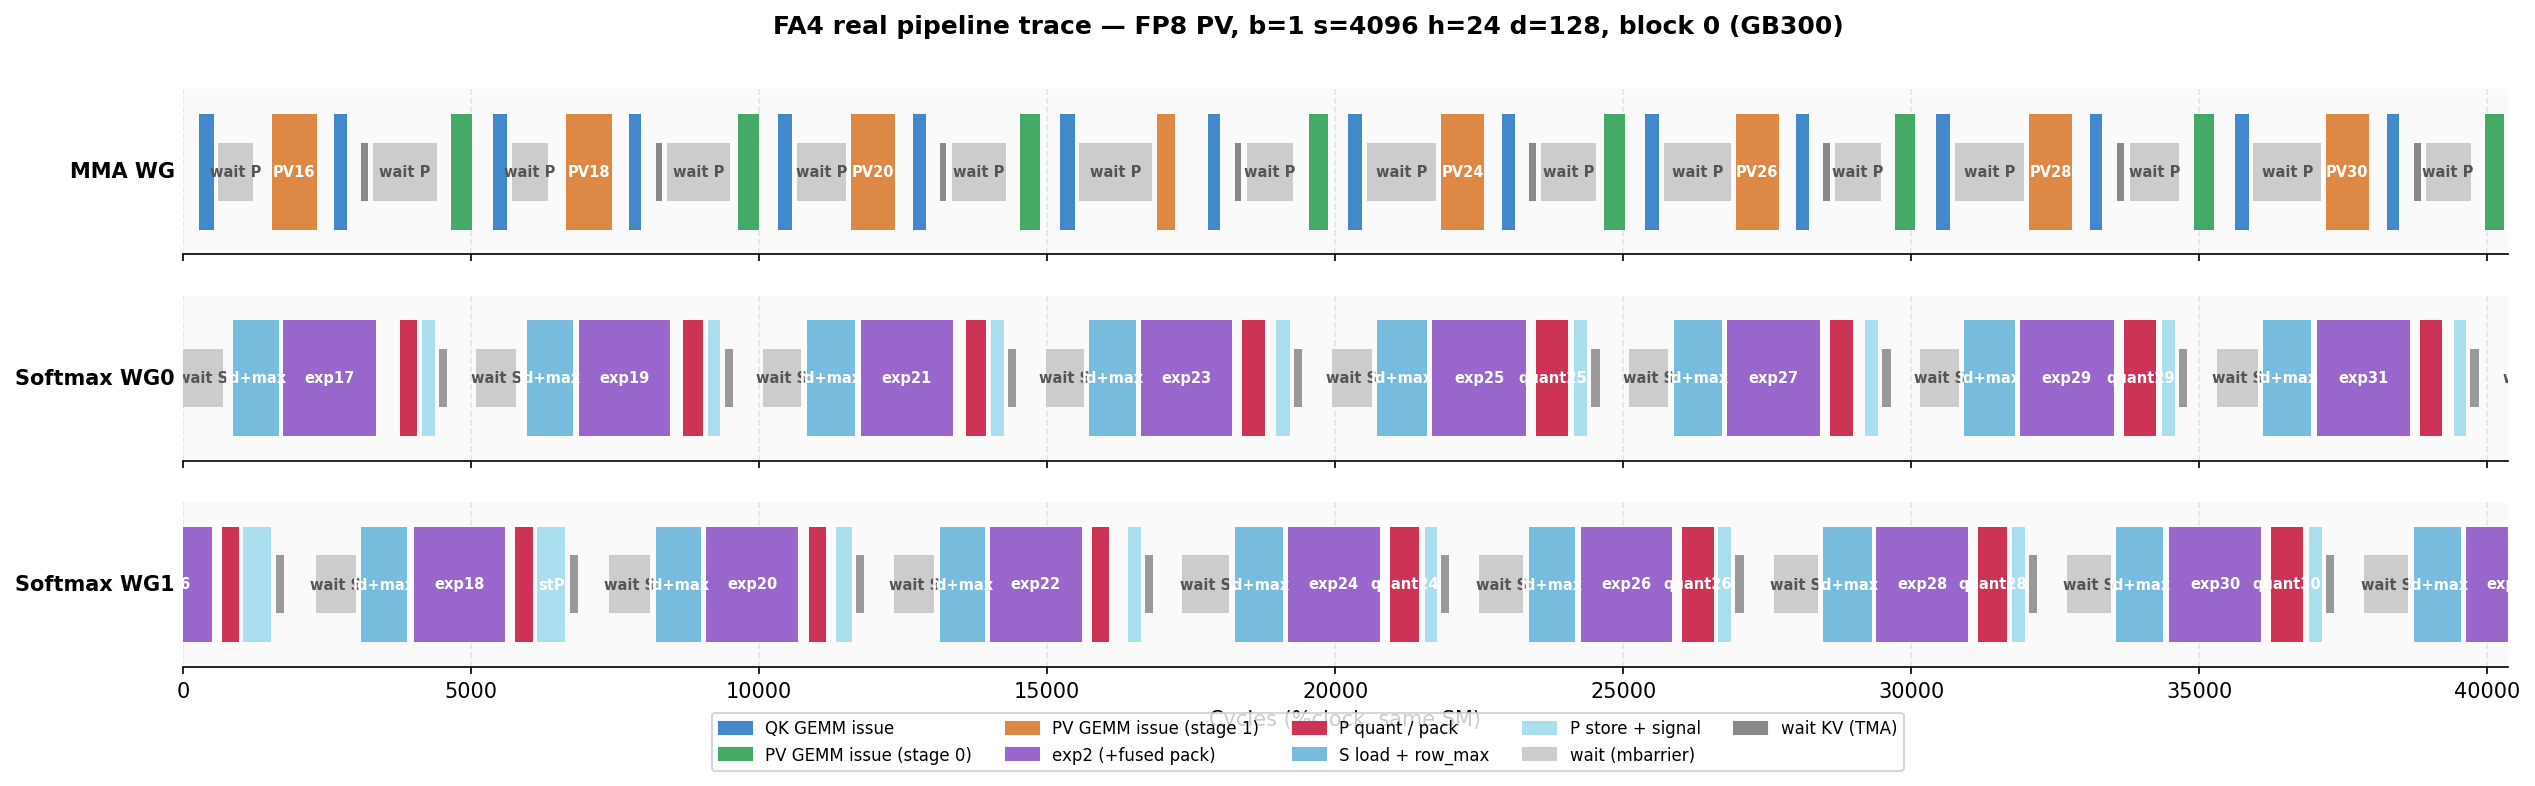
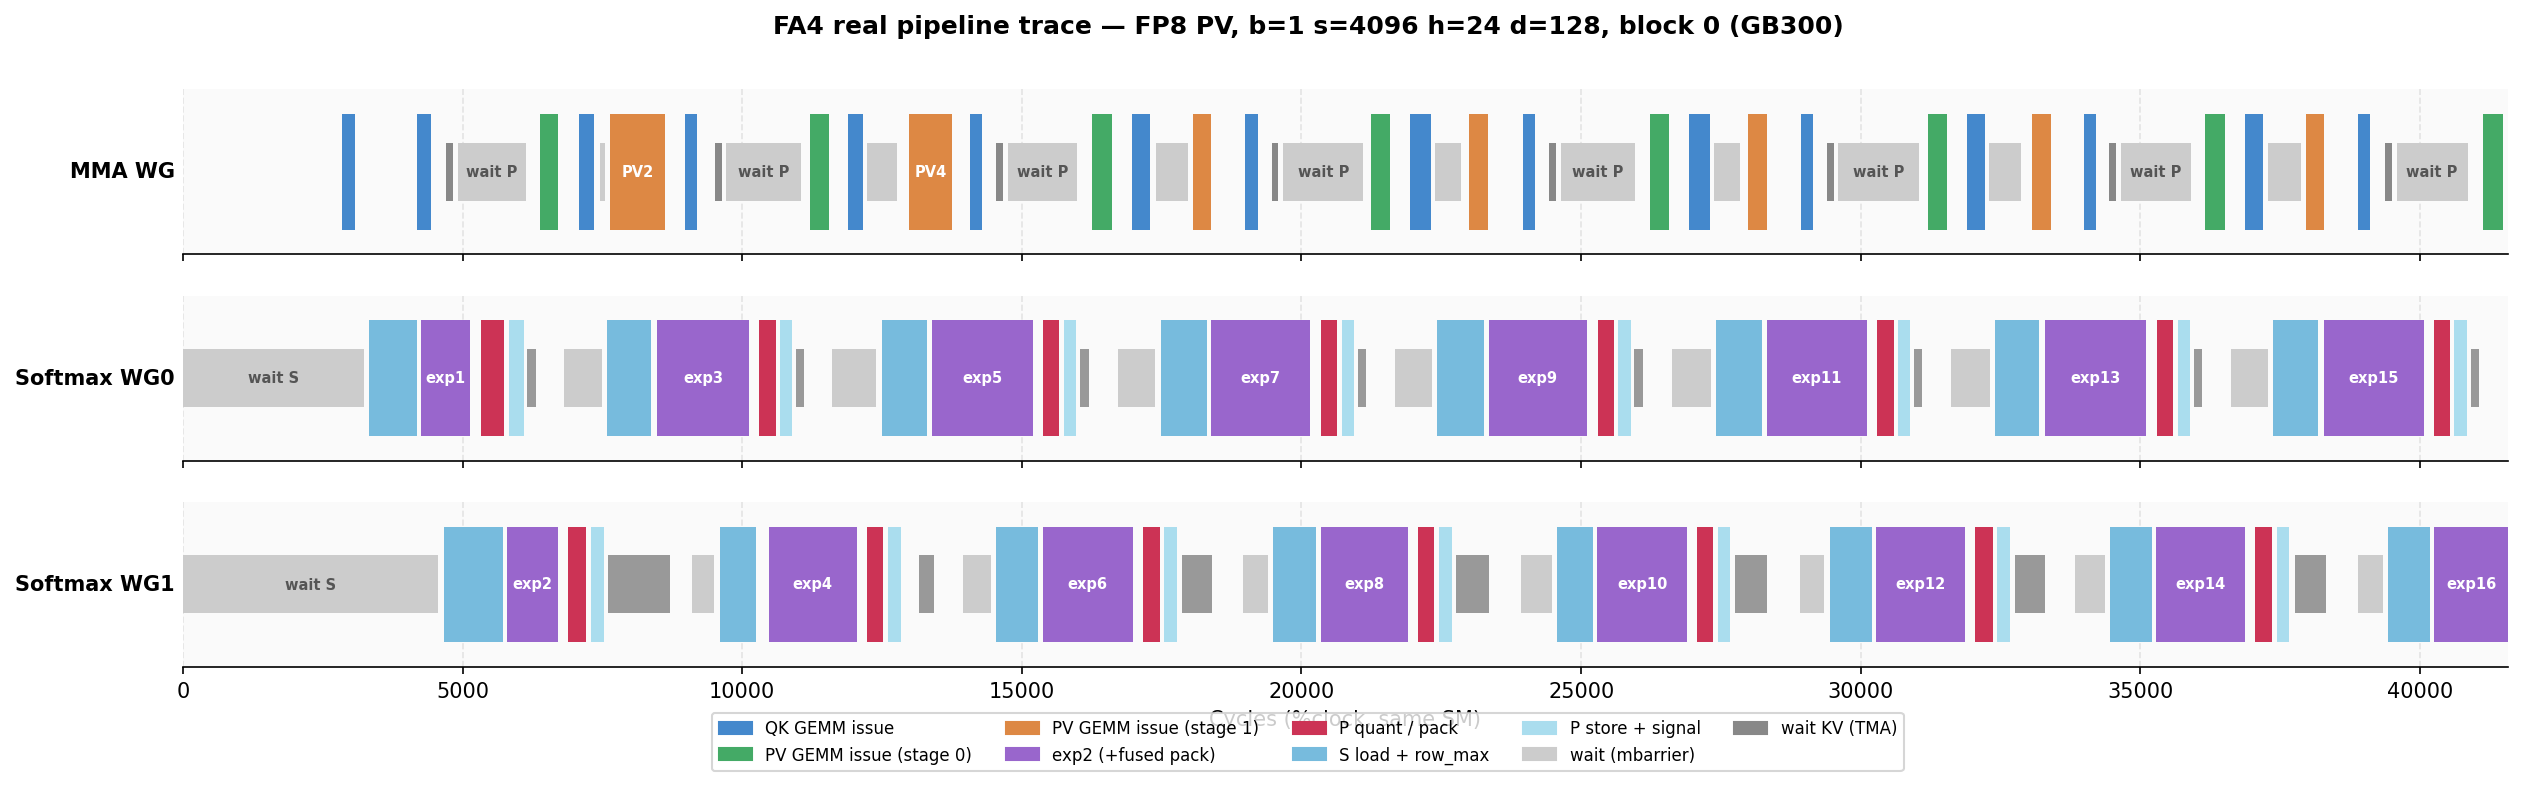
fix: trace render — clip spans to window, start at iteration 0
Spans straddling the window boundary were drawn outside the axes and the
default window started at softmax iteration 8, so the first visible label
was PV16. Clip every span to [w0, w1], default --start-iter to 0 so
indices begin at QK1/PV1/exp1, and only label bars wide enough for their
text (length-aware threshold) so narrow waits stop colliding.

diff --git a/flash_attn/cute/debug/trace_pipeline.py b/flash_attn/cute/debug/trace_pipeline.py
@@ -138,28 +138,27 @@ def render(spans_by_bg, block, output_path, title, start_iter, num_iters):
         qk_idx = 0
         counters = {}
         for s in spans:
-            if s["end"] < w0 or s["start"] > w1:
-                # keep counting GEMMs before the window so indices are global
-                if grp == fa4_prof.GRP_MMA and s["end"] < w0:
-                    if s["event_idx"] == fa4_prof.EVT_PV_GEMM:
-                        pv_idx += 1
-                    elif s["event_idx"] == fa4_prof.EVT_QK_GEMM:
-                        qk_idx += 1
-                if s["end"] < w0:
-                    counters[s["event_idx"]] = counters.get(s["event_idx"], 0) + 1
-                continue
             evt = s["event_idx"]
-            dur = s["end"] - s["start"]
+            # Count every span (even outside the window) so indices stay global.
+            counters[evt] = counters.get(evt, 0) + 1
+            if grp == fa4_prof.GRP_MMA:
+                if evt == fa4_prof.EVT_PV_GEMM:
+                    pv_idx += 1
+                elif evt == fa4_prof.EVT_QK_GEMM:
+                    qk_idx += 1
+            # Clip to the window; skip spans entirely outside it.
+            vis_start = max(s["start"], w0)
+            vis_end = min(s["end"], w1)
+            if vis_end <= vis_start:
+                continue
+
             color = COLORS.get(evt, "#607D8B")
             label = LABELS.get(evt, "")
-            counters[evt] = counters.get(evt, 0) + 1
             if grp == fa4_prof.GRP_MMA and evt == fa4_prof.EVT_PV_GEMM:
-                pv_idx += 1
                 # PV issue order alternates stage 0, stage 1
                 color = color[(pv_idx - 1) % 2] if isinstance(color, tuple) else color
                 label = f"PV{pv_idx}"
             elif grp == fa4_prof.GRP_MMA and evt == fa4_prof.EVT_QK_GEMM:
-                qk_idx += 1
                 label = f"QK{qk_idx}"
             elif evt in (fa4_prof.EVT_SOFTMAX_EXP, fa4_prof.EVT_SOFTMAX_QUANT):
                 # Number softmax work by the PV that consumes it:
@@ -172,13 +171,17 @@ def render(spans_by_bg, block, output_path, title, start_iter, num_iters):
 
             is_wait = evt in WAIT_EVENTS
             h = 0.35 if is_wait else 0.7
+            vis_dur = vis_end - vis_start
             ax.add_patch(Rectangle(
-                (s["start"] - w0, 0.5 - h / 2), max(dur, 1), h,
+                (vis_start - w0, 0.5 - h / 2), max(vis_dur, 1), h,
                 facecolor=color, edgecolor="none",
                 zorder=2 if is_wait else 3,
             ))
-            if dur > (w1 - w0) * 0.012 and label:
-                ax.text(s["start"] - w0 + dur / 2, 0.5, label,
+            # Label only when the bar is wide enough for the text
+            # (~2550 usable px at figsize 20in x 150dpi).
+            bar_px = vis_dur * 2550.0 / (w1 - w0)
+            if label and bar_px >= 10 * len(label) + 8:
+                ax.text(vis_start - w0 + vis_dur / 2, 0.5, label,
                         ha="center", va="center", fontsize=7,
                         color="white" if not is_wait else "#555555",
                         fontweight="bold", zorder=4, clip_on=True)
@@ -215,7 +218,7 @@ def main():
     p.add_argument("--nheads", type=int, default=24)
     p.add_argument("--headdim", type=int, default=128)
     p.add_argument("--block", type=int, default=0, help="CTA to visualize")
-    p.add_argument("--start-iter", type=int, default=8,
+    p.add_argument("--start-iter", type=int, default=0,
                    help="first softmax iteration of the window")
     p.add_argument("--num-iters", type=int, default=8,
                    help="number of softmax iterations to show")
